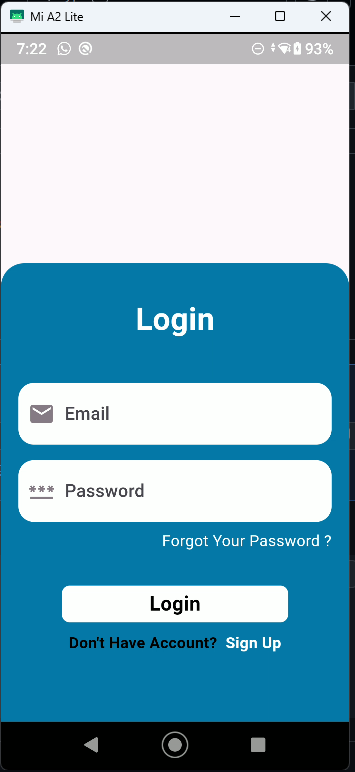
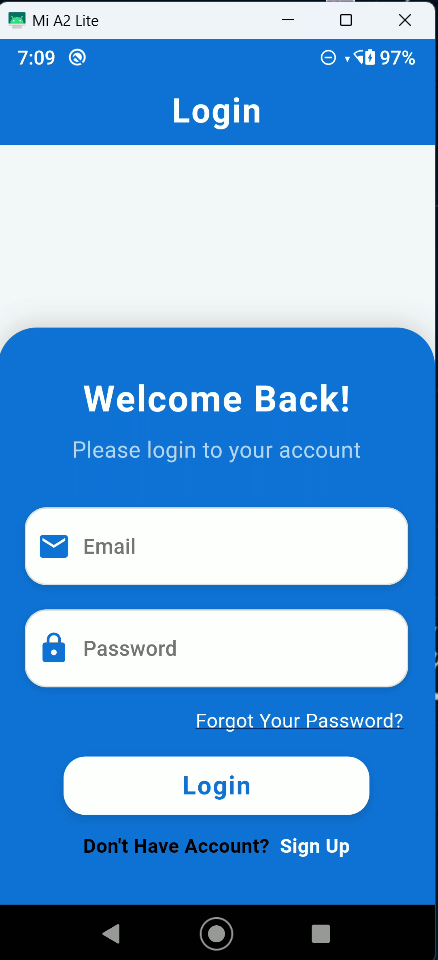
Update project structure and documentation; add assets and enhance README with screenshots and features

diff --git a/README.md b/README.md
@@ -1,5 +1,6 @@
-# auth_task2
+# Auth Task 2
 
+<<<<<<< HEAD
 ## Ui Screens
 
 ## Login UI
@@ -15,3 +16,72 @@
 ![Signup Screen](assets/otp.png)
 
 
+=======
+A modern Flutter authentication app with a unified, clean UI for Login, Signup, OTP, Home, Profile, Settings, and Info screens.
+
+---
+
+## 📱 Screenshots
+
+| Login                 | Signup                 | OTP                 | Home                 | Profile                 | Settings                | Info                 |
+| --------------------- | ---------------------- | ------------------- | -------------------- | ----------------------- | ----------------------- | -------------------- |
+| ![](assets/login.png) | ![](assets/signup.png) | ![](assets/otp.png) | ![](assets/home.png) | ![](assets/profile.png) | ![](assets/setting.png) | ![](assets/info.png) |
+
+---
+
+## 📂 Folder Structure
+
+```
+lib/
+  main.dart                // Entry point
+  constants/               // App colors & strings
+    app_colors.dart
+    app_strings.dart
+  pages/                   // All app screens
+    login_screen.dart
+    signup_screen.dart
+    otp_screen.dart
+    home_body.dart
+    home_screen.dart
+    profile_screen.dart
+    settings_screen.dart
+    info_screen.dart
+    main_page.dart
+  widgets/                 // Custom reusable widgets
+    custom_button.dart
+    custom_text_form_field.dart
+    custom_text_row.dart
+    blue_container.dart
+assets/                    // Images & assets (screenshots here)
+  login.png
+  signup.png
+  otp.png
+  home.png
+  profile.png
+  settings.png
+  info.png
+  aa.jpg
+```
+
+---
+
+## 🚀 Getting Started
+
+1. **Install dependencies:**
+   ```bash
+   flutter pub get
+   ```
+2. **Run the app:**
+   ```bash
+   flutter run
+   ```
+
+---
+
+## 🛠 Features
+
+- Modern, unified UI for all screens
+- Consistent color theme
+- Custom reusable widgets
+- Smooth user experience
+>>>>>>> 4e01ade (Update project structure and documentation; add assets and enhance README with screenshots and features)
